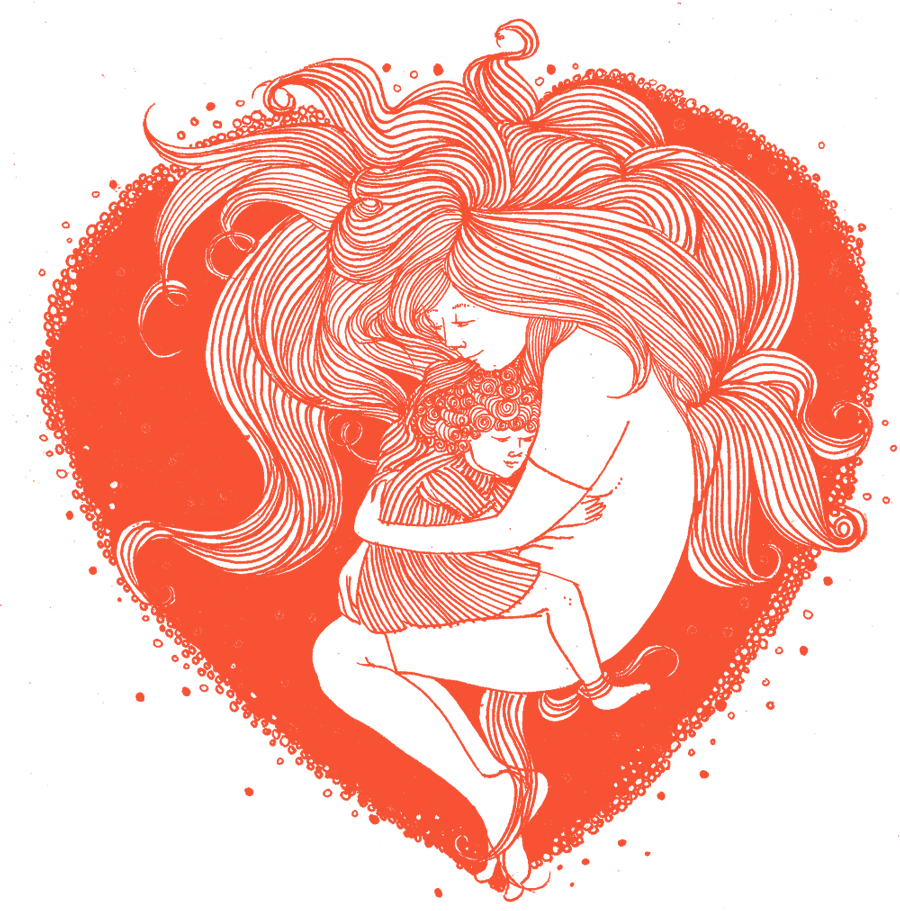
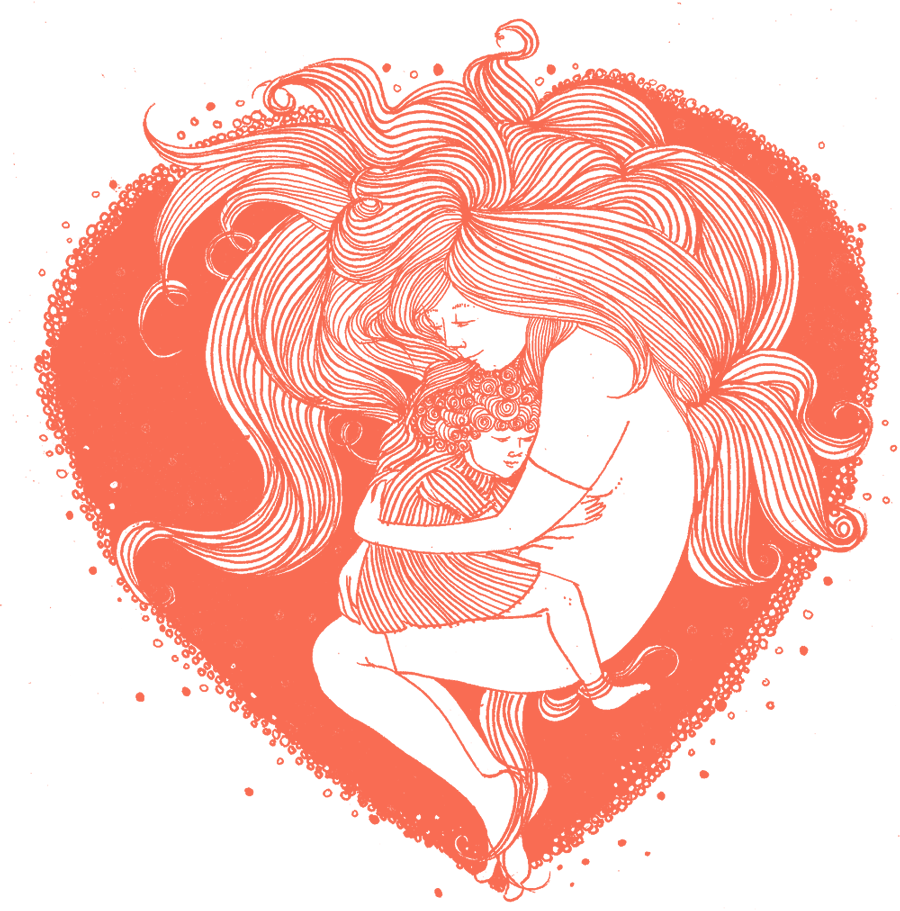
Color palette changed to softer shades.

diff --git a/design-system/css/styles.css b/design-system/css/styles.css
@@ -33,7 +33,7 @@ body {
 
 nav {
     background-color: #ffffff;
-    border-bottom: 0.25rem solid #FA7057;
+    border-bottom: 0.25rem solid #fba798;
     margin: 0 auto;
     padding: 0.25rem 0;
     position: fixed;
@@ -61,7 +61,7 @@ nav {
 }
 
 header {
-    background-color: #FA7057;
+    background-color: #fba798;
     background-image: url(../images/moms-hug.png);
     background-position: top center;
     background-repeat: no-repeat;
@@ -73,12 +73,10 @@ header {
 }
 
 #styles {
-    background-color: #FA7057;
     background-image: url(../images/moms-profile.png);
 }
 
 #patterns {
-    background-color: #FA7057;
     background-image: url(../images/moms-hair.png);
 }
 
@@ -176,11 +174,11 @@ footer {
 }
 
 ::selection {
-    background: #FA7057;
+    background: #F96C53;
   }
 
   code {
-      background-color: #FA7057;
+      background-color: #F96C53;
       color: #2f2f2f;
       display: block;
   }
@@ -232,16 +230,10 @@ img {
 /* Color palette 
     #2f2f2f black
     #f8f8f8 white
-    #ffee55 yellow
-    #fedb00 dark yellow
-    #0055ff blue
-    #1166ff light blue
-    #cc00aa pink
-    #dd33bb light pink
-
-    #FA7057 accent
-    #F85235 accent WCAG 1
-    #A71E06 accent WCAG 2
+    #fba798 light accent
+    #f96c53 accent
+    #dd2808 accent aa
+    #a71e06 accent aaa
 */
 
 .square {
@@ -261,7 +253,7 @@ img {
 }
 
 #accent {
-    background-color: #FA7057;
+    background-color: #F96C53;
     border: solid 1px #2f2f2f;
     color: #2f2f2f;
 }
@@ -367,7 +359,7 @@ figcaption, .note {
 }
 
 .type-scale {
-    border-bottom: 2px solid #FA7057;
+    border-bottom: 2px solid #F96C53;
 }
 
 .heading {
@@ -413,12 +405,12 @@ figcaption, .note {
     background: #A71E06;
 }
 .button:visited:hover {
-    background: #FA7057;
+    background: #F96C53;
     color: #f8f8f8;
 }
 
 a:link {
-    background-color: #FA7057;
+    background-color: #F96C53;
     border-bottom: 0.025rem solid #2f2f2f;
     box-shadow: inset 0 -1px 0 #2f2f2f;
     color: #2f2f2f;

diff --git a/design-system/index.html b/design-system/index.html
@@ -14,7 +14,7 @@
         <header>
             <div aria-labelledby="h1" class="content-wrap">
                 <h1>Brand foundations</h1>
-                <p class="subtle">Last update <time datetime="2019-12-16">December 16, 2019 &nbsp; &#10087; &nbsp; Reading time: 3:40 minutes.</time></p>
+                <p class="subtle">Last update <time datetime="2019-12-18">December 18, 2019 &nbsp; &#10087; &nbsp; Reading time: 3:40 minutes.</time></p>
             </div>
             <nav>
                 <h2 class="hidden">Main navigation</h2>

diff --git a/design-system/styles.html b/design-system/styles.html
@@ -14,7 +14,7 @@
         <header id="styles">
             <div class="content-wrap">
                 <h1>Style guide and assets</h1>
-                <p class="subtle">Last update <time datetime="2019-12-16">December 16, 2019 &nbsp; &#10087; &nbsp; Reading time: 2:18 minutes.</time></p>
+                <p class="subtle">Last update <time datetime="2019-12-18">December 18, 2019 &nbsp; &#10087; &nbsp; Reading time: 2:18 minutes.</time></p>
             </div>
             <nav>
                 <h2 class="hidden">Navigation</h2>

diff --git a/design-system/patterns.html b/design-system/patterns.html
@@ -14,7 +14,7 @@
         <header id="patterns">
             <div class="content-wrap">
                 <h1>Pattern library</h1>
-                <p class="subtle">Last update <time datetime="2019-12-16">December 16, 2019 &nbsp; &#10087; &nbsp; Reading time: 0:18 minutes.</time></p>
+                <p class="subtle">Last update <time datetime="2019-12-18">December 18, 2019 &nbsp; &#10087; &nbsp; Reading time: 0:18 minutes.</time></p>
             </div>
             <nav>
                 <h2 class="hidden">Navigation</h2>
